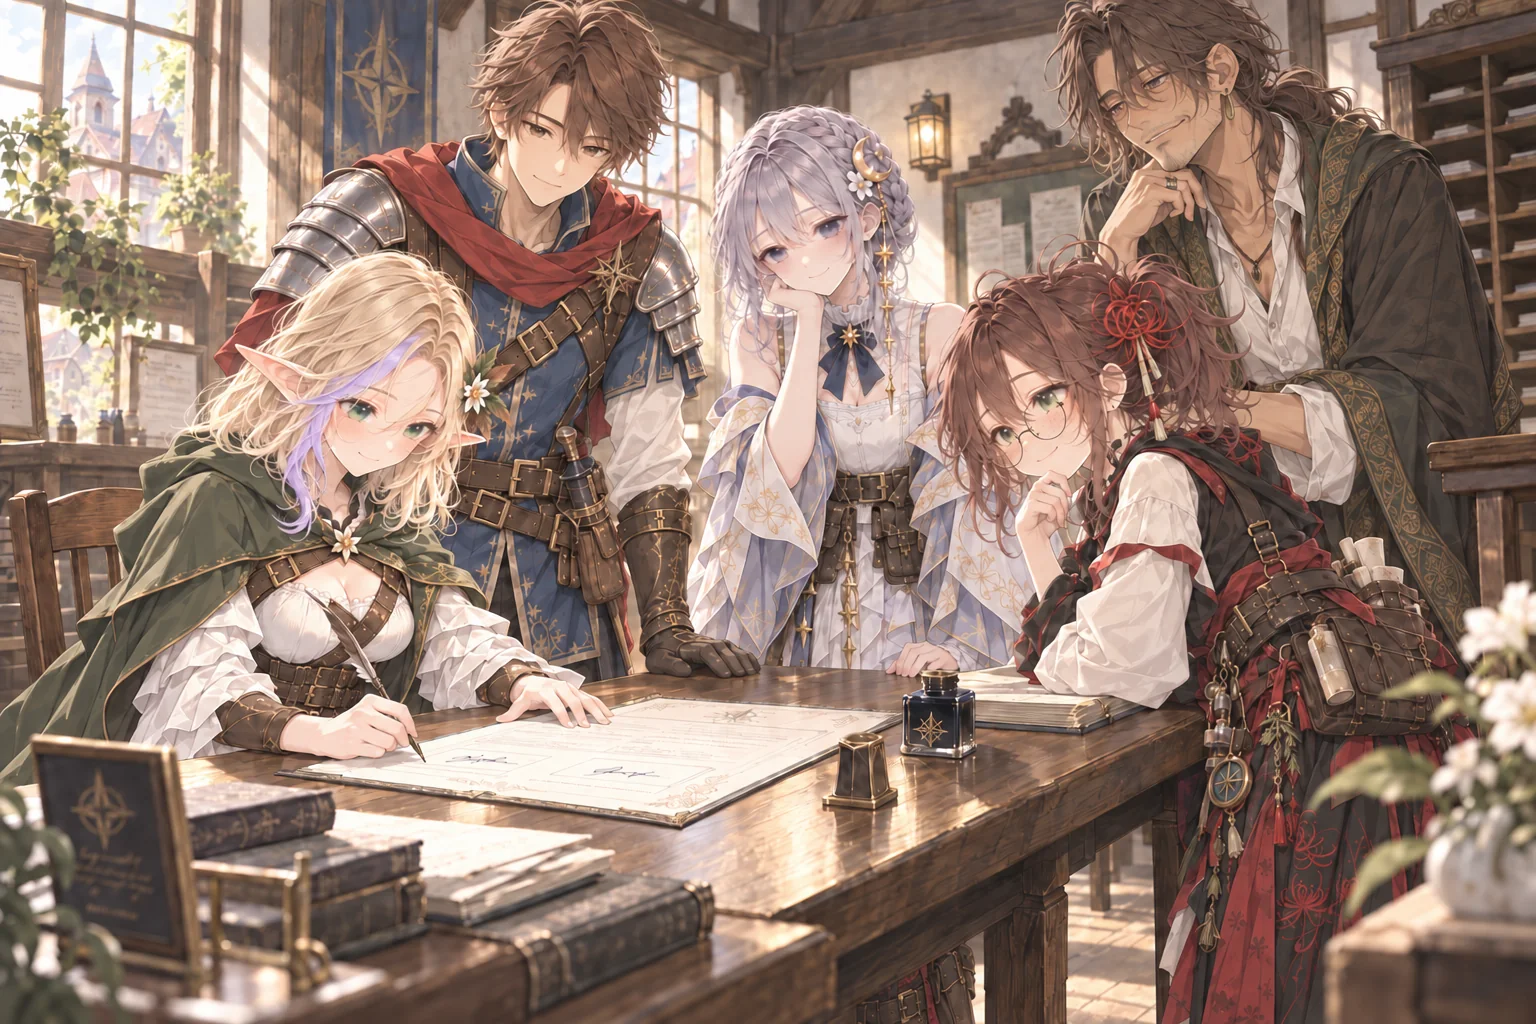
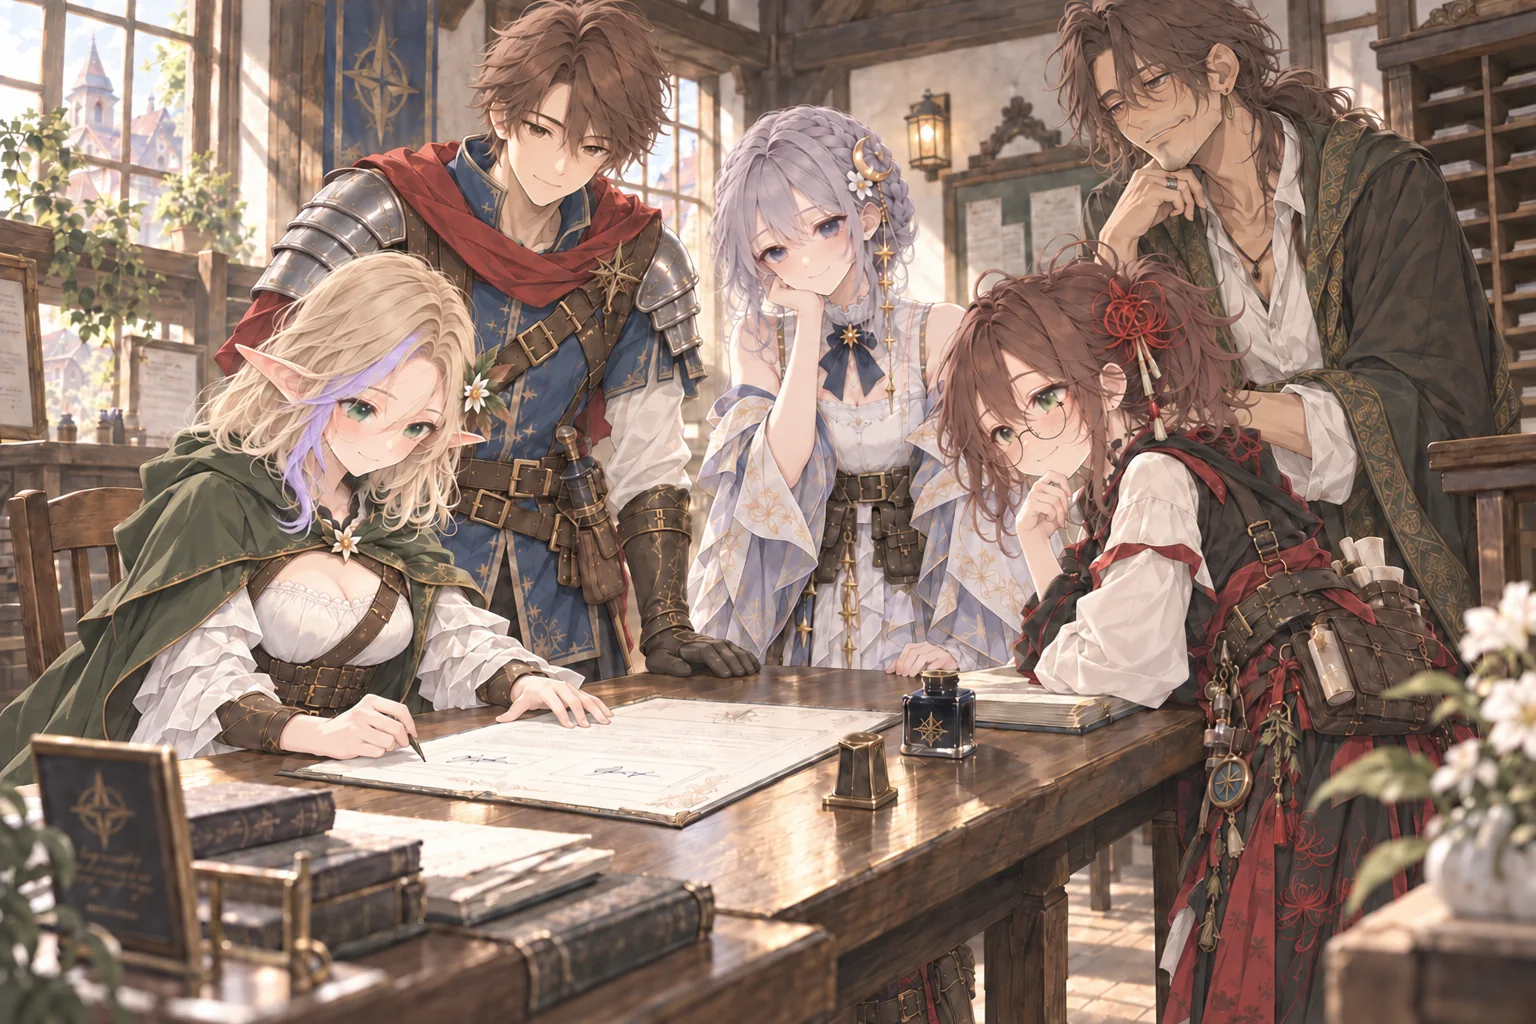
Clean up guild formation chest strap and soften hair highlights

diff --git a/docs/art/story-art-gallery.md b/docs/art/story-art-gallery.md
@@ -102,4 +102,4 @@
 
 ![アリアが旅団の登録書へ署名し、レオン、ミラ、フィン、リコが机を囲んで見守る。](../../public/stories/guild-formation.webp)
 
-2026-10-05に五人の最新設定画へ更新。アリアの短い髪と薄紫の一房、レオンの短い片肩マント、ミラ・フィン・リコの髪型と衣装を反映し、五人が同じ書類を囲む構図と署名する動作を保つ。[更新記録](../art-generation/guild-formation-refresh-20261005.json)を参照。
+2026-10-05に五人の最新設定画へ更新。アリアの短い髪と薄紫の一房、レオンの短い片肩マント、ミラ・フィン・リコの髪型と衣装を反映し、五人が同じ書類を囲む構図と署名する動作を保つ。2026-10-06にアリアの胸元で交差していた余分なベルト状の線を除き、五人の髪の強い光沢を抑えた。[更新記録](../art-generation/guild-formation-refresh-20261005.json)を参照。
